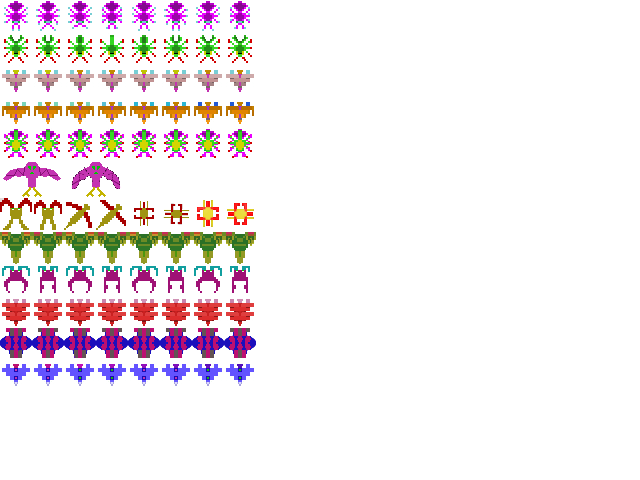
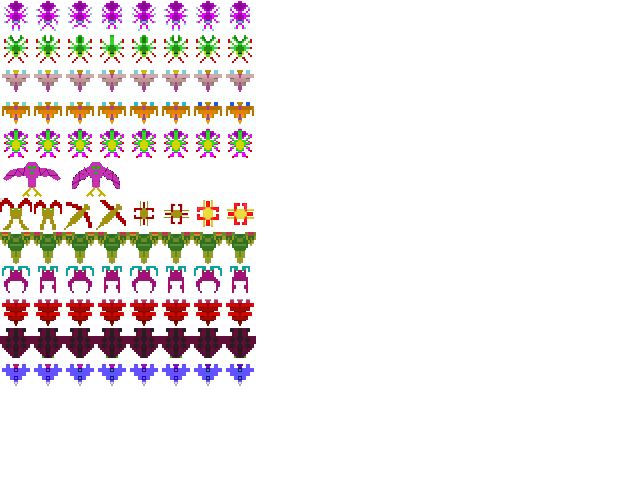
Add files via upload

Changed region(s): [[0.0, 0.625, 0.4062, 0.75]]

diff --git a/src/game.js b/src/game.js
@@ -238,9 +238,9 @@ export default class Game {
         this.level.getBonusEnemy(9, -30, 50, 270);
       } else if (Math.random() > 0.999) {
         this.bonusTime = true;
-        this.level.getBonusEnemy(11, this.screenWidth + 90, 130, 0);
-        this.level.getBonusEnemy(11, this.screenWidth + 50, 170, 0);
-        this.level.getBonusEnemy(11, this.screenWidth + 90, 210, 0);
+        this.level.getBonusEnemy(11, this.screenWidth + 90, 80, 0);
+        this.level.getBonusEnemy(11, this.screenWidth + 50, 120, 0);
+        this.level.getBonusEnemy(11, this.screenWidth + 90, 160, 0);
       }
     }
 

diff --git a/src/enemy.js b/src/enemy.js
@@ -50,7 +50,7 @@ export default class Enemy {
       this.sourceY = 128;
     } else if (this.enemyType === 5) {
       this.sourceY = 264;
-    } else if (this.enemyType === 6 || this.enemyType === 11) {
+    } else if (this.enemyType === 6) {
       this.sourceY = 296;
     } else if (this.enemyType === 7) {
       this.sourceY = 196;
@@ -61,6 +61,8 @@ export default class Enemy {
       this.height = 28;
     } else if (this.enemyType === 10) {
       this.sourceY = 360;
+    } else if (this.enemyType === 11) {
+      this.sourceY = 328;
     }
 
     this.numberOfFrames = 8;
